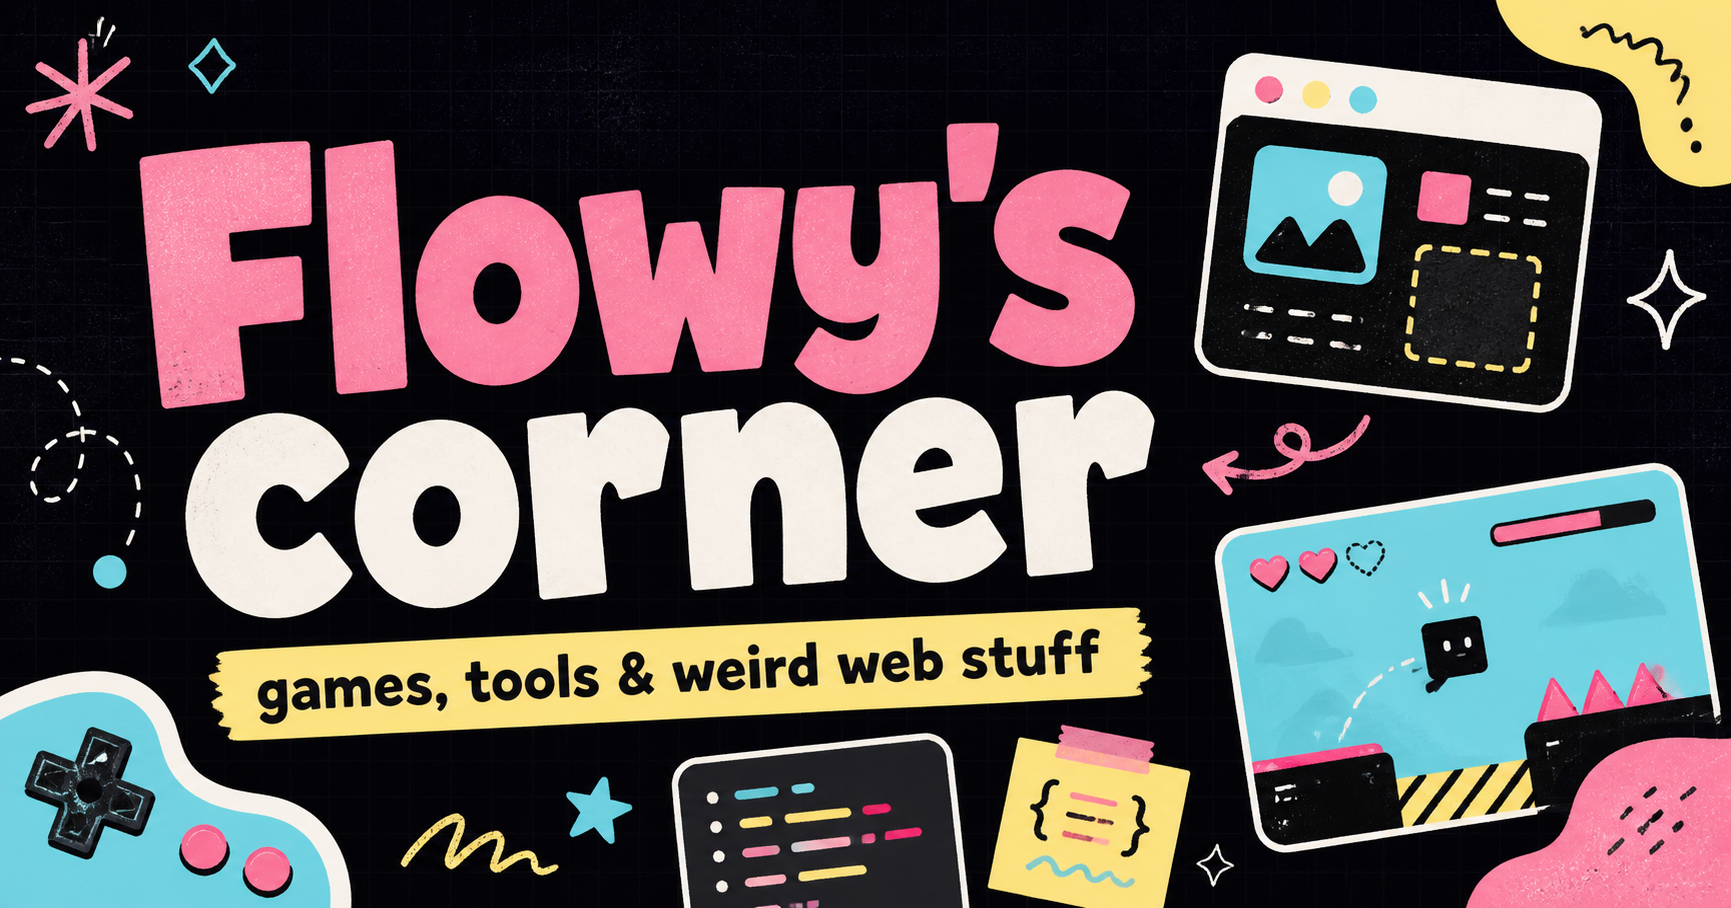
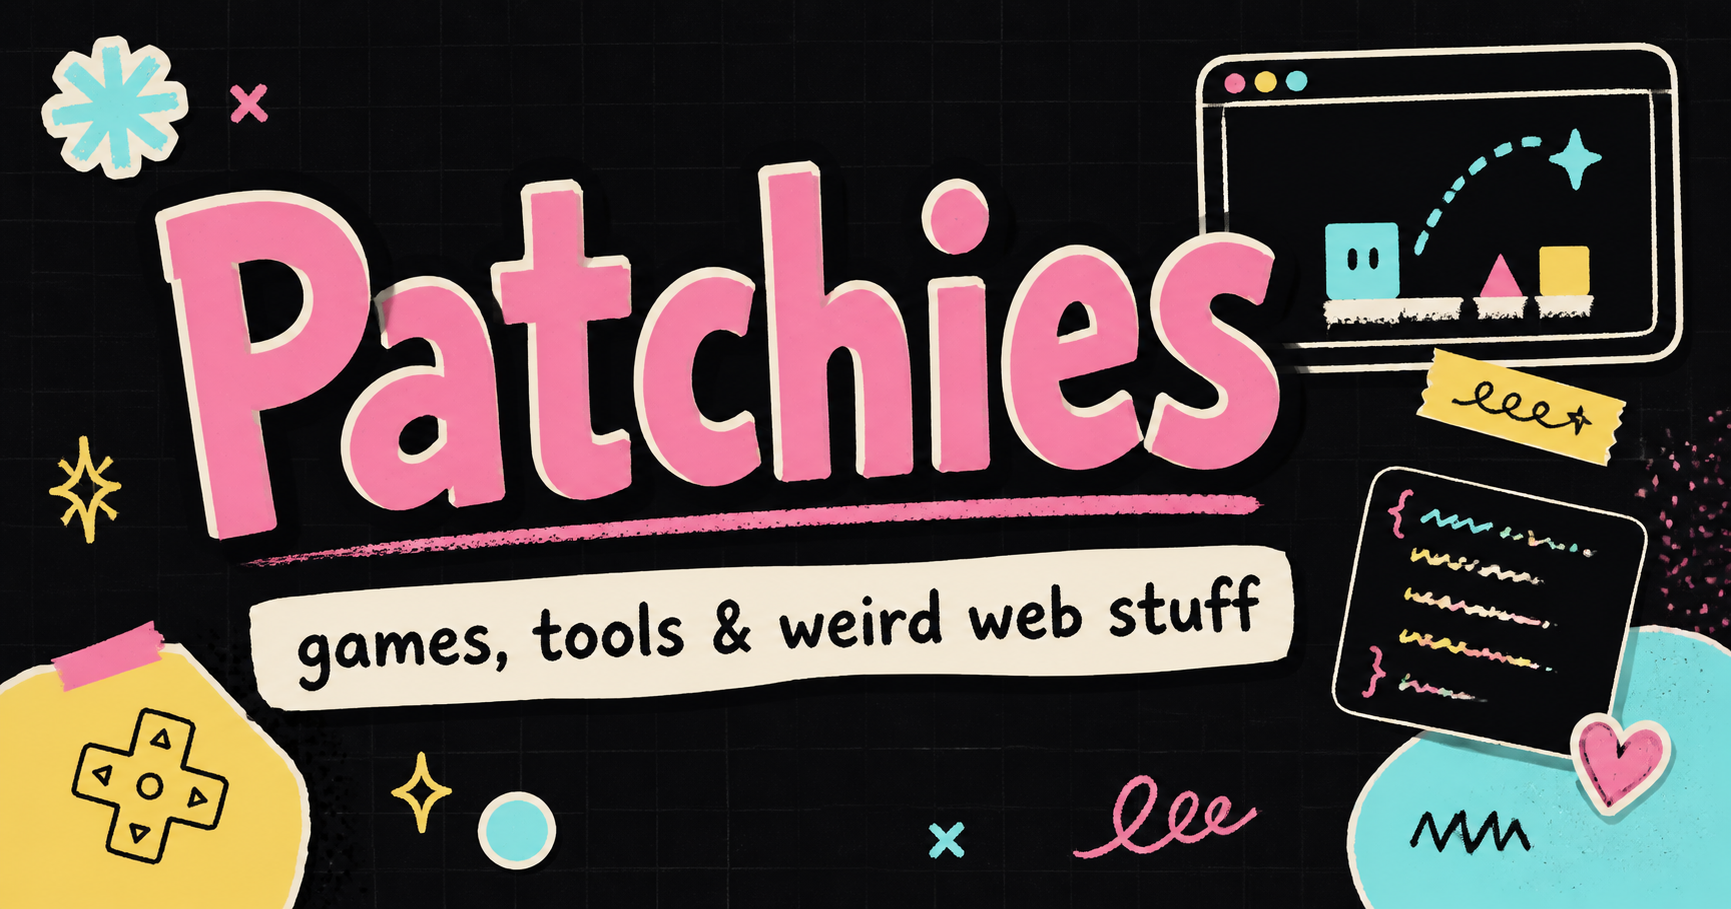
Rename site to Patchies

diff --git a/app/page.tsx b/app/page.tsx
@@ -20,9 +20,9 @@ export default function Home() {
 
       <header className="fixed inset-x-0 top-0 z-40 px-4 pt-4 md:px-7">
         <div className="mx-auto flex h-14 max-w-7xl items-center justify-between gap-4 rounded-full border border-white/10 bg-[#111016]/85 px-4 shadow-2xl shadow-black/20 backdrop-blur-xl md:px-6">
-          <Link href="/" className="group flex items-center gap-2" aria-label="Flowy home">
-            <span className="grid size-8 place-items-center rounded-full bg-[#ff8fb3] font-black text-[#1c0c13] transition group-hover:-rotate-12">F</span>
-            <span className="text-sm font-black tracking-[-.02em] text-white">flowy&apos;s corner</span>
+          <Link href="/" className="group flex items-center gap-2" aria-label="Patchies home">
+            <span className="grid size-8 place-items-center rounded-full bg-[#ff8fb3] font-black text-[#1c0c13] transition group-hover:-rotate-12">P</span>
+            <span className="text-sm font-black tracking-[-.02em] text-white">Patchies</span>
           </Link>
           <nav className="flex items-center gap-1 text-sm font-bold text-zinc-400" aria-label="Main navigation">
             <a className="hidden rounded-full px-3 py-2 transition hover:bg-white/5 hover:text-white sm:block" href="#stuff">my stuff</a>
@@ -37,7 +37,7 @@ export default function Home() {
         <div className="blob blob-blue absolute -left-48 bottom-[-12rem] size-[440px] rounded-full md:size-[620px]" />
         <div className="relative mx-auto grid min-h-[calc(100svh-10rem)] max-w-7xl items-center gap-14 lg:grid-cols-[minmax(0,1.25fr)_minmax(300px,.55fr)]">
           <motion.div initial={{ opacity: 0, y: 18 }} animate={{ opacity: 1, y: 0 }} transition={{ duration: .6 }}>
-            <p className="mb-6 w-fit -rotate-2 rounded-full border border-[#ff8fb3]/35 bg-[#ff8fb3]/10 px-4 py-2 text-xs font-black text-[#ffc4d6]">hey, i&apos;m Flowy 👋</p>
+            <p className="mb-6 w-fit -rotate-2 rounded-full border border-[#ff8fb3]/35 bg-[#ff8fb3]/10 px-4 py-2 text-xs font-black text-[#ffc4d6]">hey, i&apos;m Patchies 👋</p>
             <h1 className="max-w-5xl text-5xl font-black leading-[.9] tracking-[-.065em] text-white sm:text-7xl md:text-8xl xl:text-[7.5rem]">I make weird little things <span className="scribble text-[#ff8fb3]">for the internet.</span></h1>
             <p className="mt-8 max-w-2xl text-lg leading-8 text-zinc-300">Games, tools, chaotic experiments, whatever looked fun at 2 AM. If it moves, makes noise, or saves me from doing something manually, I&apos;m probably building it.</p>
             <div className="mt-9 flex flex-wrap items-center gap-3">
@@ -136,7 +136,7 @@ export default function Home() {
 
       <footer className="px-5 pb-8 md:px-8">
         <div className="mx-auto flex max-w-7xl flex-col gap-3 border-t border-white/10 pt-7 text-xs font-bold text-zinc-500 sm:flex-row sm:items-center sm:justify-between">
-          <span>© {new Date().getFullYear()} Flowy. built with code and bad sleep habits.</span>
+          <span>© {new Date().getFullYear()} Patchies. built with code and bad sleep habits.</span>
           <span>games • tools • weird web stuff</span>
         </div>
       </footer>

diff --git a/app/janitor/page.tsx b/app/janitor/page.tsx
@@ -2,7 +2,7 @@ import type { Metadata } from "next";
 import Link from "next/link";
 
 export const metadata: Metadata = {
-  title: "Janitor Tools — made by Flowy",
+  title: "Janitor Tools — made by Patchies",
   description: "Free, practical tools for making and maintaining Janitor.AI profiles without losing your mind to CSS.",
 };
 
@@ -27,8 +27,8 @@ export default function JanitorHub() {
       <header className="relative z-20 px-4 pt-4 md:px-7">
         <div className="mx-auto flex h-14 max-w-7xl items-center justify-between gap-4 rounded-full border border-white/10 bg-[#0d1216]/85 px-4 shadow-2xl shadow-black/20 backdrop-blur-xl md:px-6">
           <Link href="/" className="group flex items-center gap-2 text-sm font-black text-white">
-            <span className="grid size-8 place-items-center rounded-full bg-[#ff8fb3] text-[#1c0c13] transition group-hover:-rotate-12">F</span>
-            <span>back to Flowy&apos;s corner</span>
+            <span className="grid size-8 place-items-center rounded-full bg-[#ff8fb3] text-[#1c0c13] transition group-hover:-rotate-12">P</span>
+            <span>back to Patchies</span>
           </Link>
           <span className="hidden rounded-full bg-[#b8f4ff]/10 px-3 py-2 text-xs font-black text-[#b8f4ff] sm:block">janitor tools / not affiliated, just stubborn</span>
         </div>
@@ -91,7 +91,7 @@ export default function JanitorHub() {
         </div>
       </section>
 
-      <footer className="px-5 pb-8 md:px-8"><div className="mx-auto flex max-w-7xl flex-col gap-3 border-t border-white/10 pt-7 text-xs font-bold text-zinc-500 sm:flex-row sm:items-center sm:justify-between"><span>made by Flowy, because apparently I enjoy CSS</span><Link href="/" className="transition hover:text-white">back to the main site ↑</Link></div></footer>
+      <footer className="px-5 pb-8 md:px-8"><div className="mx-auto flex max-w-7xl flex-col gap-3 border-t border-white/10 pt-7 text-xs font-bold text-zinc-500 sm:flex-row sm:items-center sm:justify-between"><span>made by Patchies, because apparently I enjoy CSS</span><Link href="/" className="transition hover:text-white">back to the main site ↑</Link></div></footer>
     </main>
   );
 }

diff --git a/app/layout.tsx b/app/layout.tsx
@@ -4,24 +4,24 @@ import "./globals.css";
 export const metadata: Metadata = {
   metadataBase: new URL("https://hiironohana.github.io"),
   title: {
-    default: "Flowy's corner — games, tools & weird web stuff",
-    template: "%s | Flowy",
+    default: "Patchies — games, tools & weird web stuff",
+    template: "%s | Patchies",
   },
-  description: "Flowy's little corner of the internet: games, Janitor creator tools, playable experiments, and other weird things.",
+  description: "Patchies' little corner of the internet: games, Janitor creator tools, playable experiments, and other weird things.",
   alternates: {
     canonical: "/",
   },
   openGraph: {
-    title: "Flowy's corner",
-    description: "Games, tools & weird web stuff—built by Flowy.",
+    title: "Patchies",
+    description: "Games, tools & weird web stuff—built by Patchies.",
     type: "website",
     url: "https://hiironohana.github.io",
-    images: [{ url: "/og.png", width: 1731, height: 908, alt: "Flowy's corner — games, tools & weird web stuff" }],
+    images: [{ url: "/og.png", width: 1731, height: 908, alt: "Patchies — games, tools & weird web stuff" }],
   },
   twitter: {
     card: "summary_large_image",
-    title: "Flowy's corner",
-    description: "Games, tools & weird web stuff—built by Flowy.",
+    title: "Patchies",
+    description: "Games, tools & weird web stuff—built by Patchies.",
     images: ["/og.png"],
   },
 };

diff --git a/README.md b/README.md
@@ -1,4 +1,4 @@
-# Flowy's corner
+# Patchies
 
 My personal site: games, Janitor creator tools, and weird web experiments.
 
